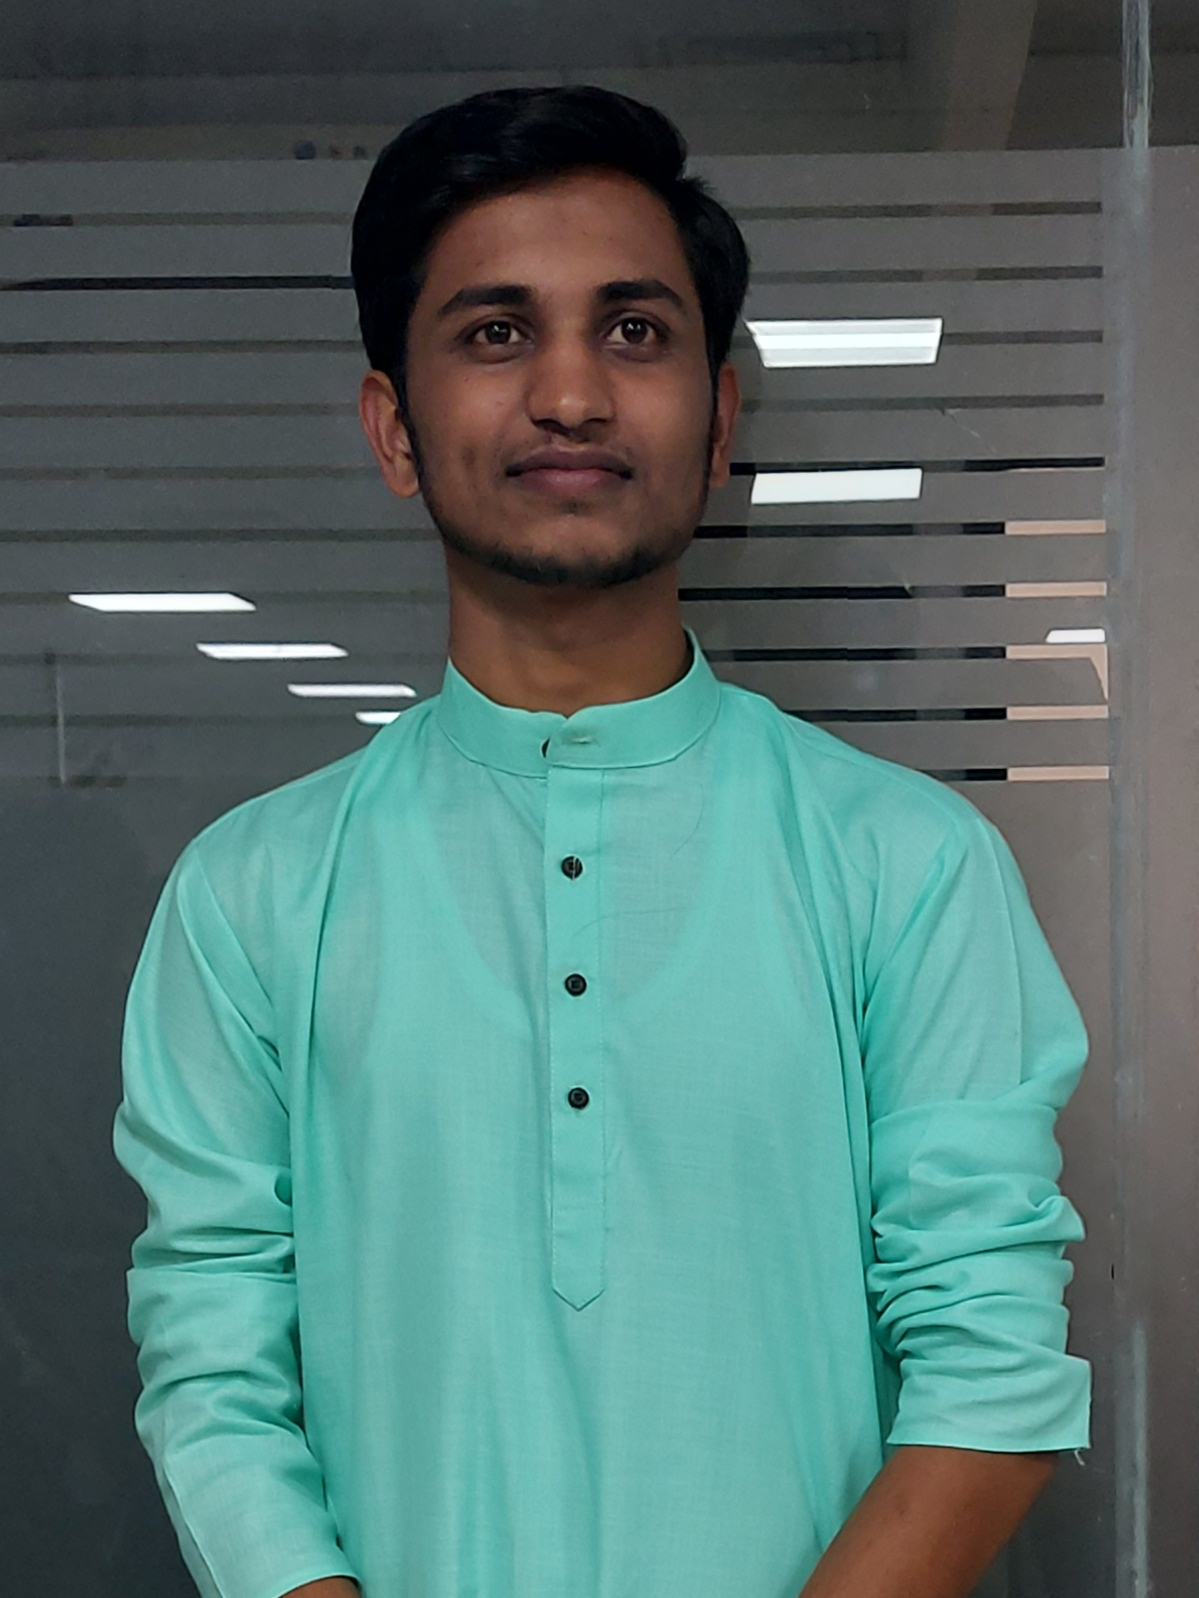
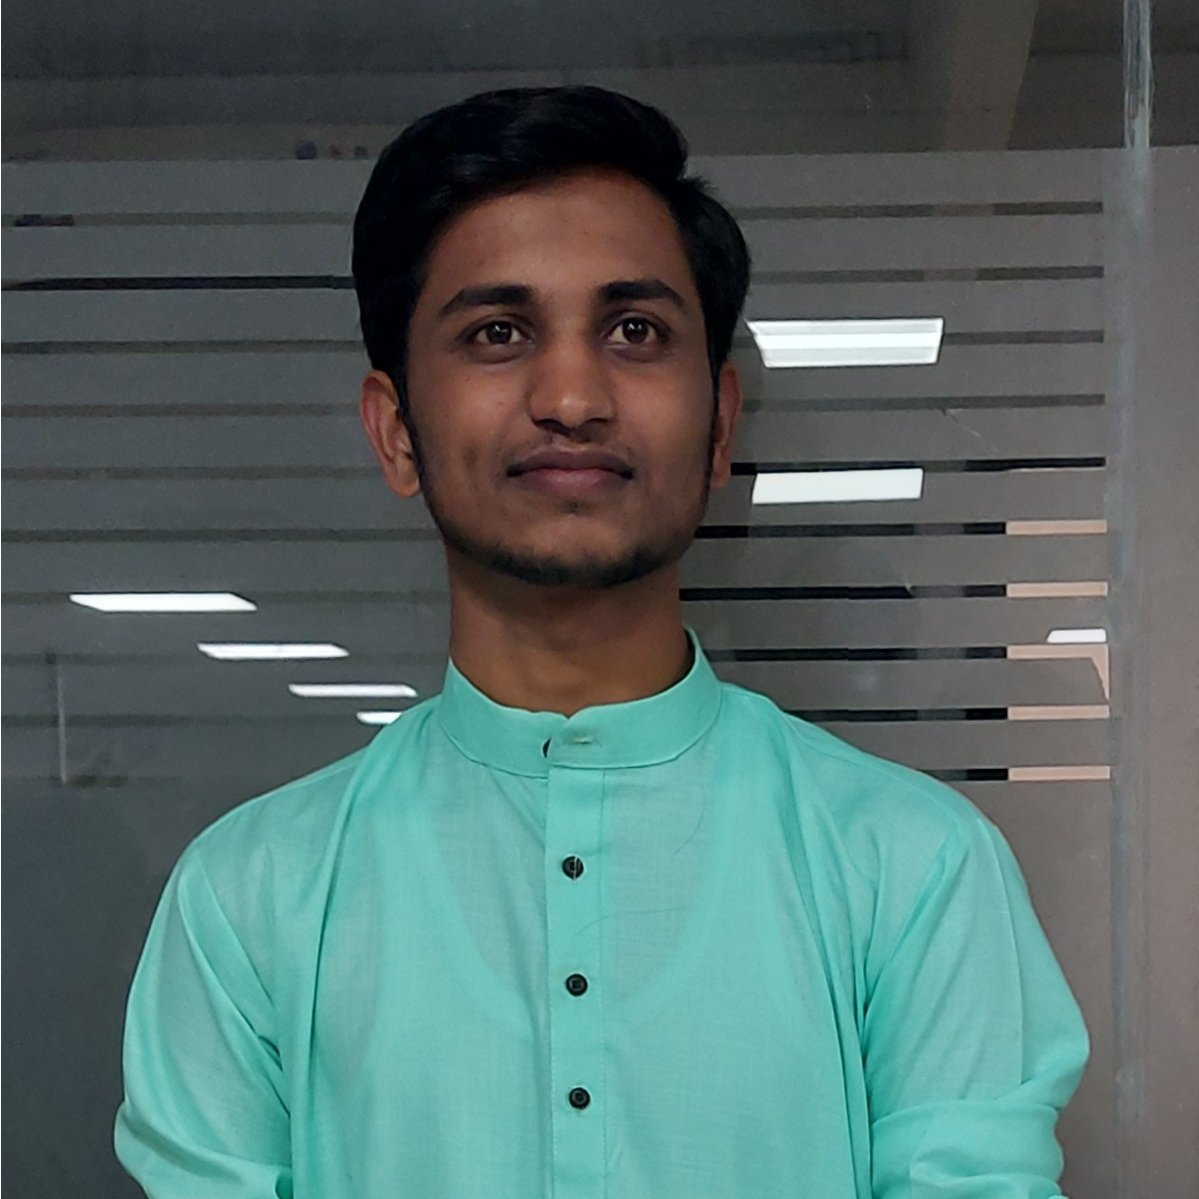
Updated

diff --git a/src/App.css b/src/App.css
@@ -2,7 +2,6 @@
   padding: 0;
   margin: 0;
   width:100%;
-  background-color: rgb(255, 255, 255);
   color: black;
 }
 
@@ -27,7 +26,7 @@ body{
   width: fit-content;
   font-size: 4vw;
   padding: 1vw 4vw;
-  color: white;
+  color: black;
   font-family: 'Dancing Script', cursive;
 }
 
@@ -50,7 +49,7 @@ body{
 .nav-bar li a{
   text-decoration: none;
   padding: 0;
-  color: white;
+  color: black;
   font-weight: bolder;
 }
 
@@ -105,12 +104,12 @@ body{
 
 .profile{
   width: 40%;
-
 }
 
 .profile img{
   width: 22vw;
   border-radius: 1vw;
+  background:linear-gradient(to bottom right, rgb(243, 242, 242), rgb(131, 131, 130))
   
 }
 
@@ -123,7 +122,8 @@ body{
   margin-left: 10%;
   padding-top: 5vw;
   letter-spacing: 0.2vw;
-  
+  background-color: aquamarine;
+  border-radius: 2vw;
 }
 
 
@@ -153,7 +153,7 @@ body{
 .about span{
   color: chartreuse;
 }
-
+/* 
 .details{
   width: 80%;
 }
@@ -161,24 +161,91 @@ body{
 .details td{
   font-size: 1vw;
   /* border: 2px solid white; */
-  width: 50%;
+  /* width: 50%;
   padding: 1.8vw 0vw;
 }
 
 .details td span{
   font-size: 1vw;
   /* border: 2px solid white; */
-  width: 50%;
+  /* width: 50%;
   padding: 1.8vw 0vw;
   color: rgb(152, 147, 147);
+}  */
+
+.Details{
+  width: 110%;
+  display: flex;
+  font-weight: bolder;
+  gap: 5vw;
+  margin-left: -3.8vw;
 }
 
-.skills{
+.Details .short-intro{
+  width: 80%;
+  padding: 3vw;
+  font-size: 1.6vw;
+  align-self: center;
+  line-height: 3vw;
+  background-color : rgb(54, 146, 146);
+  border-radius: 2vw;
+
+}
+
+
+
+.Details .short-intro span{
+  font-size: 3vw;
+  padding: 0vw 0vw 0vw 7vw;
+  
+}
+
+.Details .personal-info{
+  width: 50%;
+  padding: 1vw;
+  font-size: 1.2vw;
+  background-color : rgb(54, 146, 146);
+  border-radius: 2vw;
+  
+  
+  
+}
+
+.Details .personal-info h2{
+  font-size: 2.8vw;
+  padding: 0.5vw 0vw;
+}
+.table{
   width: 100%;
+  letter-spacing: 0vw;
+  padding: 2vw 1vw 2vw 0vw;
+}
+
+
+
+.table tr td{
+  width: 60%;
+  padding: 0.5vw 1vw ;
+}
+
+.table tr .hlight{
+  width: 60%;
+  padding: 0.5vw 1vw ;
+  color: rgb(255, 255, 255);
+  font-size: 1.4vw;
+  font-weight: 800;
+}
+
+
+.skills{
+  width: 110%;
   display: grid;
   grid-template-columns: repeat(4,1fr);
   grid-gap: 8vw;
   padding-top: 3vw;
+  background-color: rgb(54, 146, 146);
+  border-radius: 2vw;
+  margin-left: -3.8vw;
 }
 
 .skills h3{
@@ -215,7 +282,7 @@ body{
   width: 10vw;
   height: 10vw;
   background: 
-  radial-gradient(closest-side, rgba(198, 193, 193) 70%, transparent 70% 100%),
+  radial-gradient(closest-side, rgba(255, 255, 255) 70%, transparent 70% 100%),
   conic-gradient(chartreuse 60%, rgb(152, 147, 147) 0); 
   border-radius: 100%;
   position: relative;
@@ -227,7 +294,7 @@ body{
   width: 10vw;
   height: 10vw;
   background: 
-  radial-gradient(closest-side, rgba(198, 193, 193) 70%, transparent 70% 100%),
+  radial-gradient(closest-side, rgba(255, 255, 255) 70%, transparent 70% 100%),
   conic-gradient(chartreuse 60%, rgb(152, 147, 147) 0); 
   border-radius: 100%;
   position: relative;
@@ -239,7 +306,7 @@ body{
   width: 10vw;
   height: 10vw;
   background: 
-  radial-gradient(closest-side, rgba(198, 193, 193) 70%, transparent 70% 100%),
+  radial-gradient(closest-side, rgba(255, 255, 255) 70%, transparent 70% 100%),
   conic-gradient(chartreuse 40%, rgb(152, 147, 147) 0); 
   border-radius: 100%;
   position: relative;
@@ -251,7 +318,7 @@ body{
   width: 10vw;
   height: 10vw;
   background: 
-  radial-gradient(closest-side, rgba(198, 193, 193) 70%, transparent 70% 100%),
+  radial-gradient(closest-side, rgba(255, 255, 255) 70%, transparent 70% 100%),
   conic-gradient(chartreuse 85%, rgb(152, 147, 147) 0); 
   border-radius: 100%;
   position: relative;
@@ -263,7 +330,7 @@ body{
   width: 10vw;
   height: 10vw;
   background: 
-  radial-gradient(closest-side, rgba(198, 193, 193) 70%, transparent 70% 100%),
+  radial-gradient(closest-side, rgba(255, 255, 255) 70%, transparent 70% 100%),
   conic-gradient(chartreuse 70%, rgb(152, 147, 147) 0); 
   border-radius: 100%;
   position: relative;
@@ -275,7 +342,7 @@ body{
   width: 10vw;
   height: 10vw;
   background: 
-  radial-gradient(closest-side, rgba(198, 193, 193) 70%, transparent 70% 100%),
+  radial-gradient(closest-side, rgba(255, 255, 255) 70%, transparent 70% 100%),
   conic-gradient(chartreuse  50%, rgb(152, 147, 147) 0); 
   border-radius: 100%;
   position: relative;

diff --git a/src/Components/About.js b/src/Components/About.js
@@ -8,17 +8,51 @@ function About() {
       <h1>
         ABOUT <span>ME</span>
       </h1>
-
-      <p>
-        As a front-end web developer, I specialize in creating user-facing
-        websites and applications. My primary focus is on building the visual
-        and interactive elements of a website or app using HTML, CSS, and
-        JavaScript. I work closely with designers and back-end developers to
+      <div className="Details">
+        <div className="short-intro">
+          <p>
+            <span>Hi, I am Prasad Datir.</span> As a front-end web developer, I
+            specialize in creating user-facing websites and applications. My
+            primary focus is on building the visual and interactive elements of
+            a website or app using HTML, CSS, and JavaScript.
+            {/* I work closely with designers and back-end developers to
         ensure that the user experience is seamless and intuitive. I'm also
         constantly learning and keeping up-to-date with the latest web
         technologies and best practices to create cutting-edge and accessible
-        web experiences.
-      </p>
+        web experiences. */}
+          </p>
+        </div>
+        <div className="personal-info">
+          <h2>Personal Details</h2>
+          <table className="table">
+            <tr>
+              <td className="hlight">Birthdate</td>
+              <td>: 08-05-1998</td>
+            </tr>
+            <tr>
+              <td className="hlight">Phone</td>
+              <td>: 8805278178</td>
+            </tr>
+            <tr>
+              <td className="hlight">Email</td>
+              <td>: prasaddatir05@gmail.com</td>
+            </tr>
+            <tr>
+              <td className="hlight">Address</td>
+              <td>: Maharashtra, India</td>
+            </tr>
+            <tr>
+              <td className="hlight">Job Status</td>
+              <td>: Working</td>
+            </tr>
+            <tr>
+              <td className="hlight">Languges Known</td>
+              <td>: Marathi, hindi, English</td>
+            </tr>
+          </table>
+        </div>
+      </div>
+
       {/* <h4>Personal Infos</h4>
       <table className="details">
         <tr>
@@ -59,5 +93,4 @@ function About() {
     </div>
   );
 }
-
 export default About;

diff --git a/src/Components/Home.js b/src/Components/Home.js
@@ -1,6 +1,6 @@
 import React from "react";
 import "../App.css";
-import profile from "./prasad.jpg";
+import profile from "./prasad-removebg-preview.png";
 function Home() {
   return (
     <div className="home" id="home">
